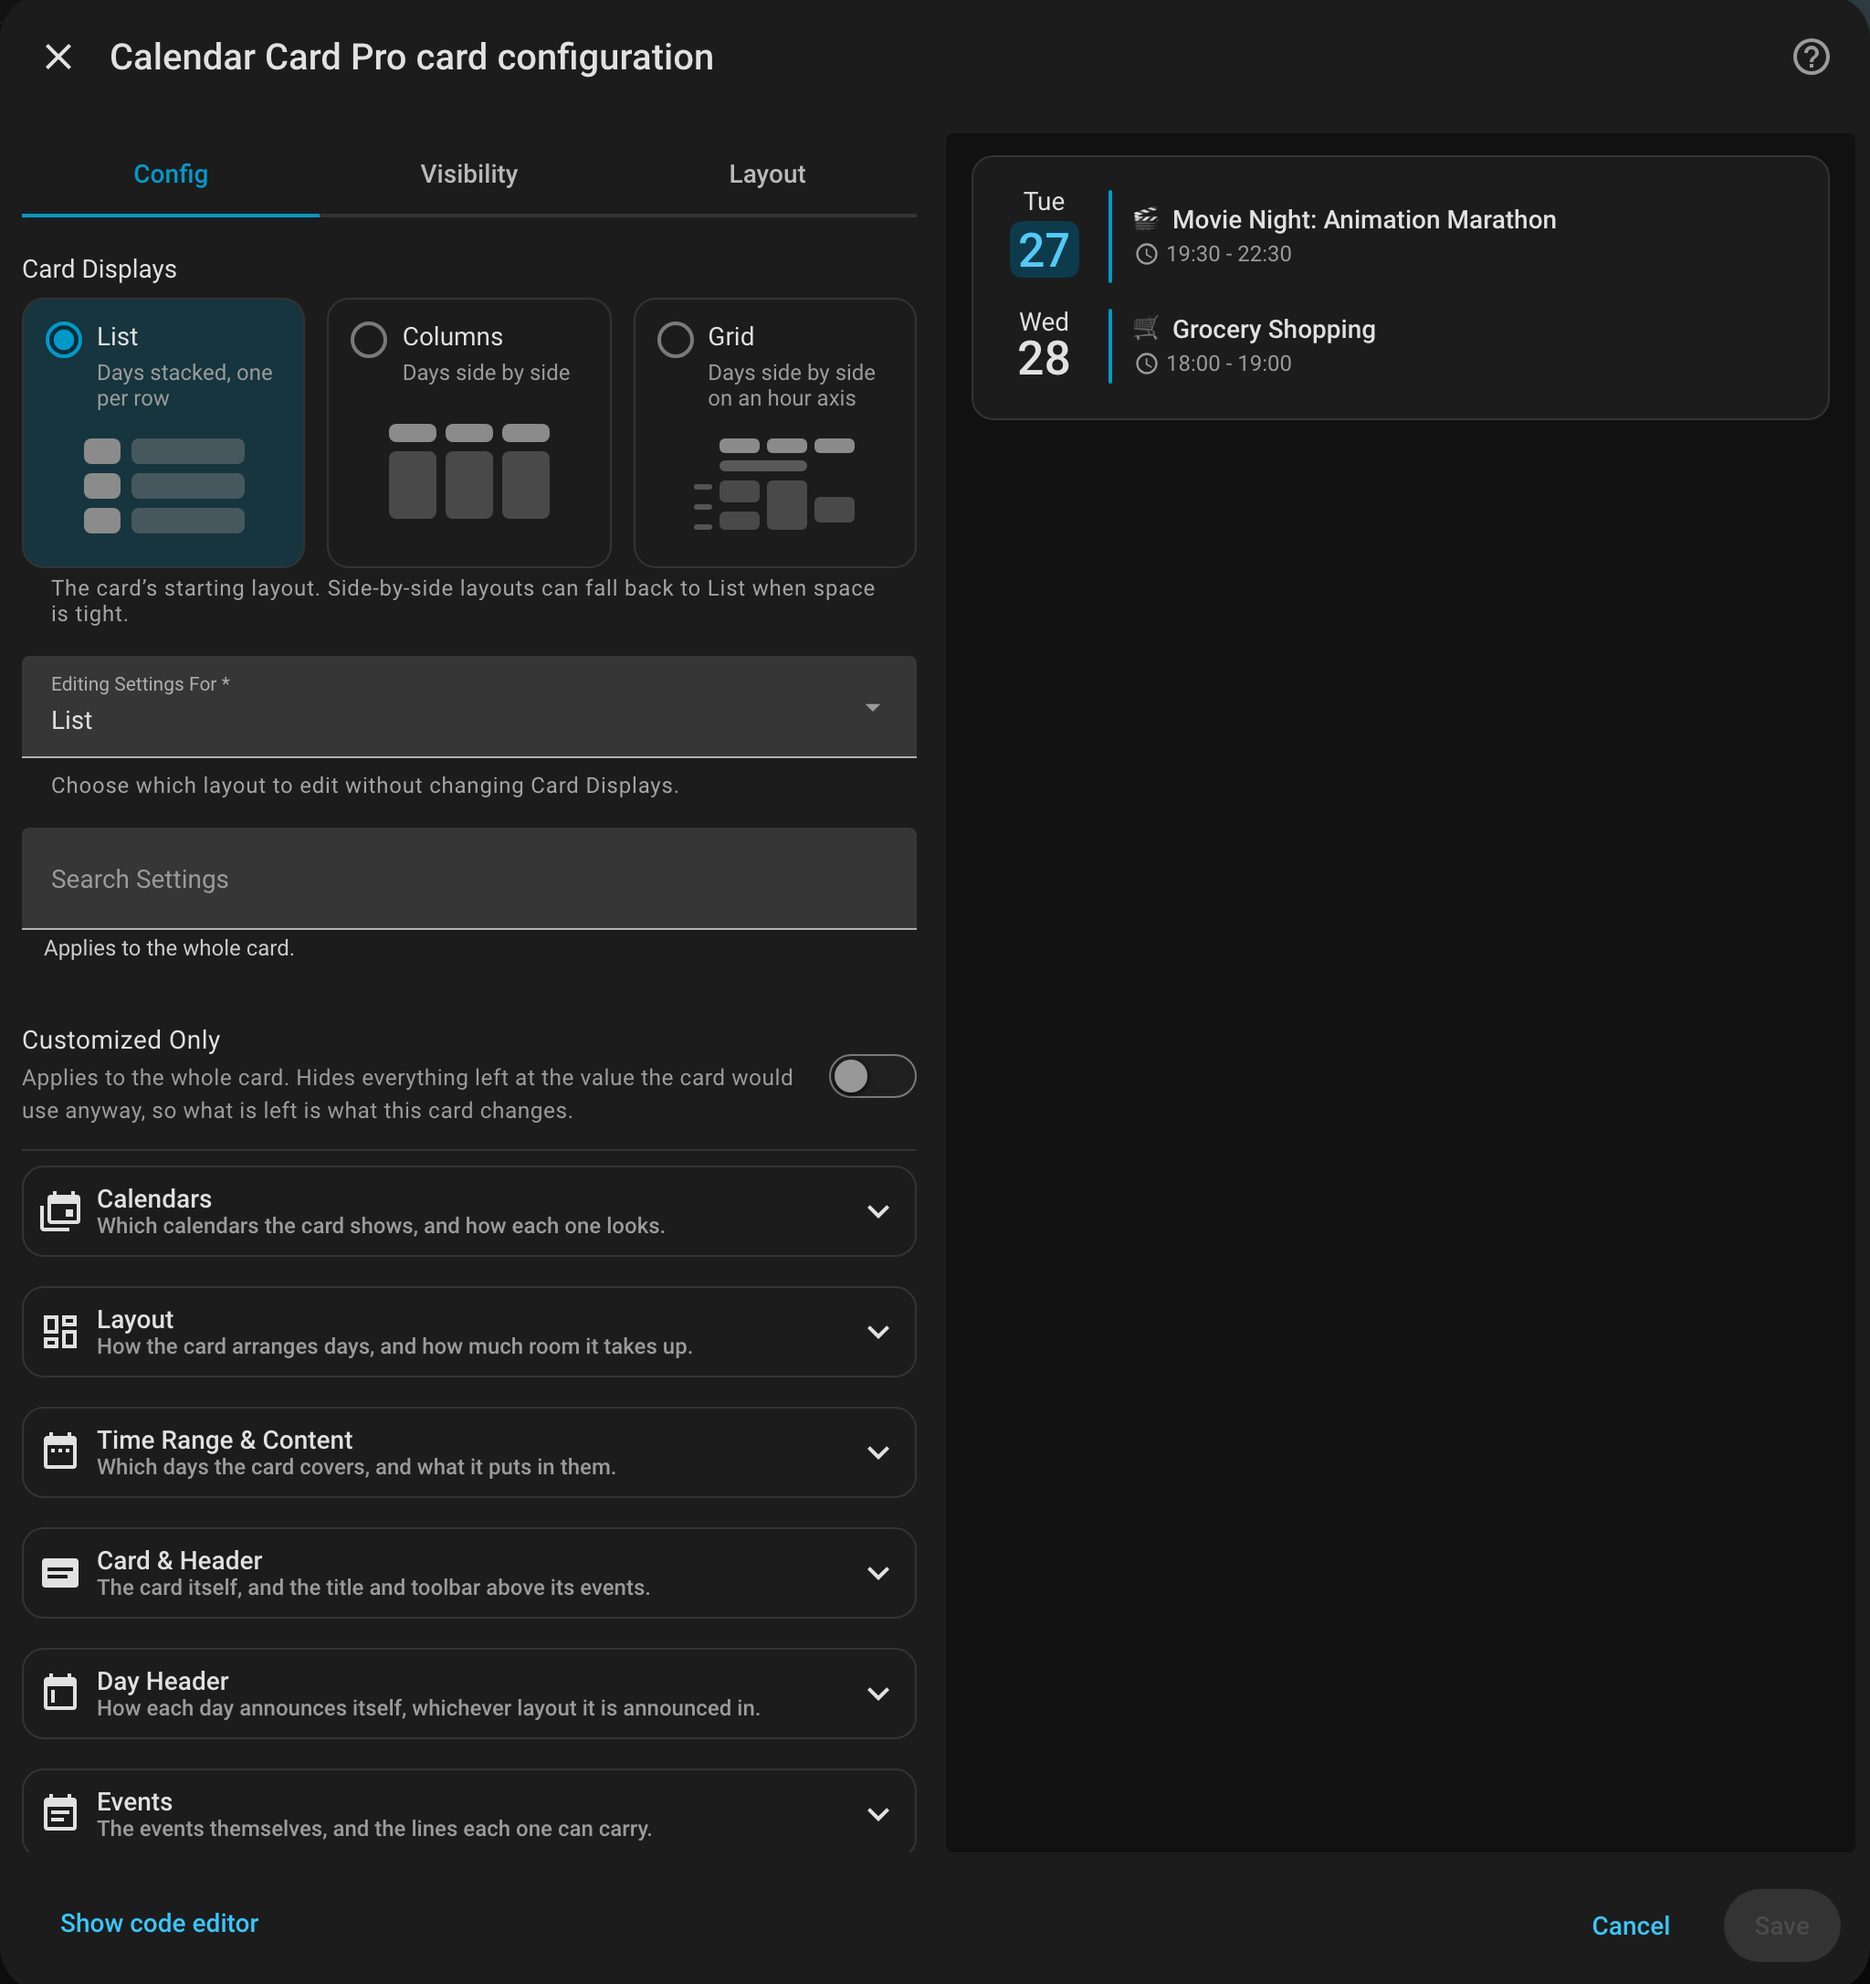
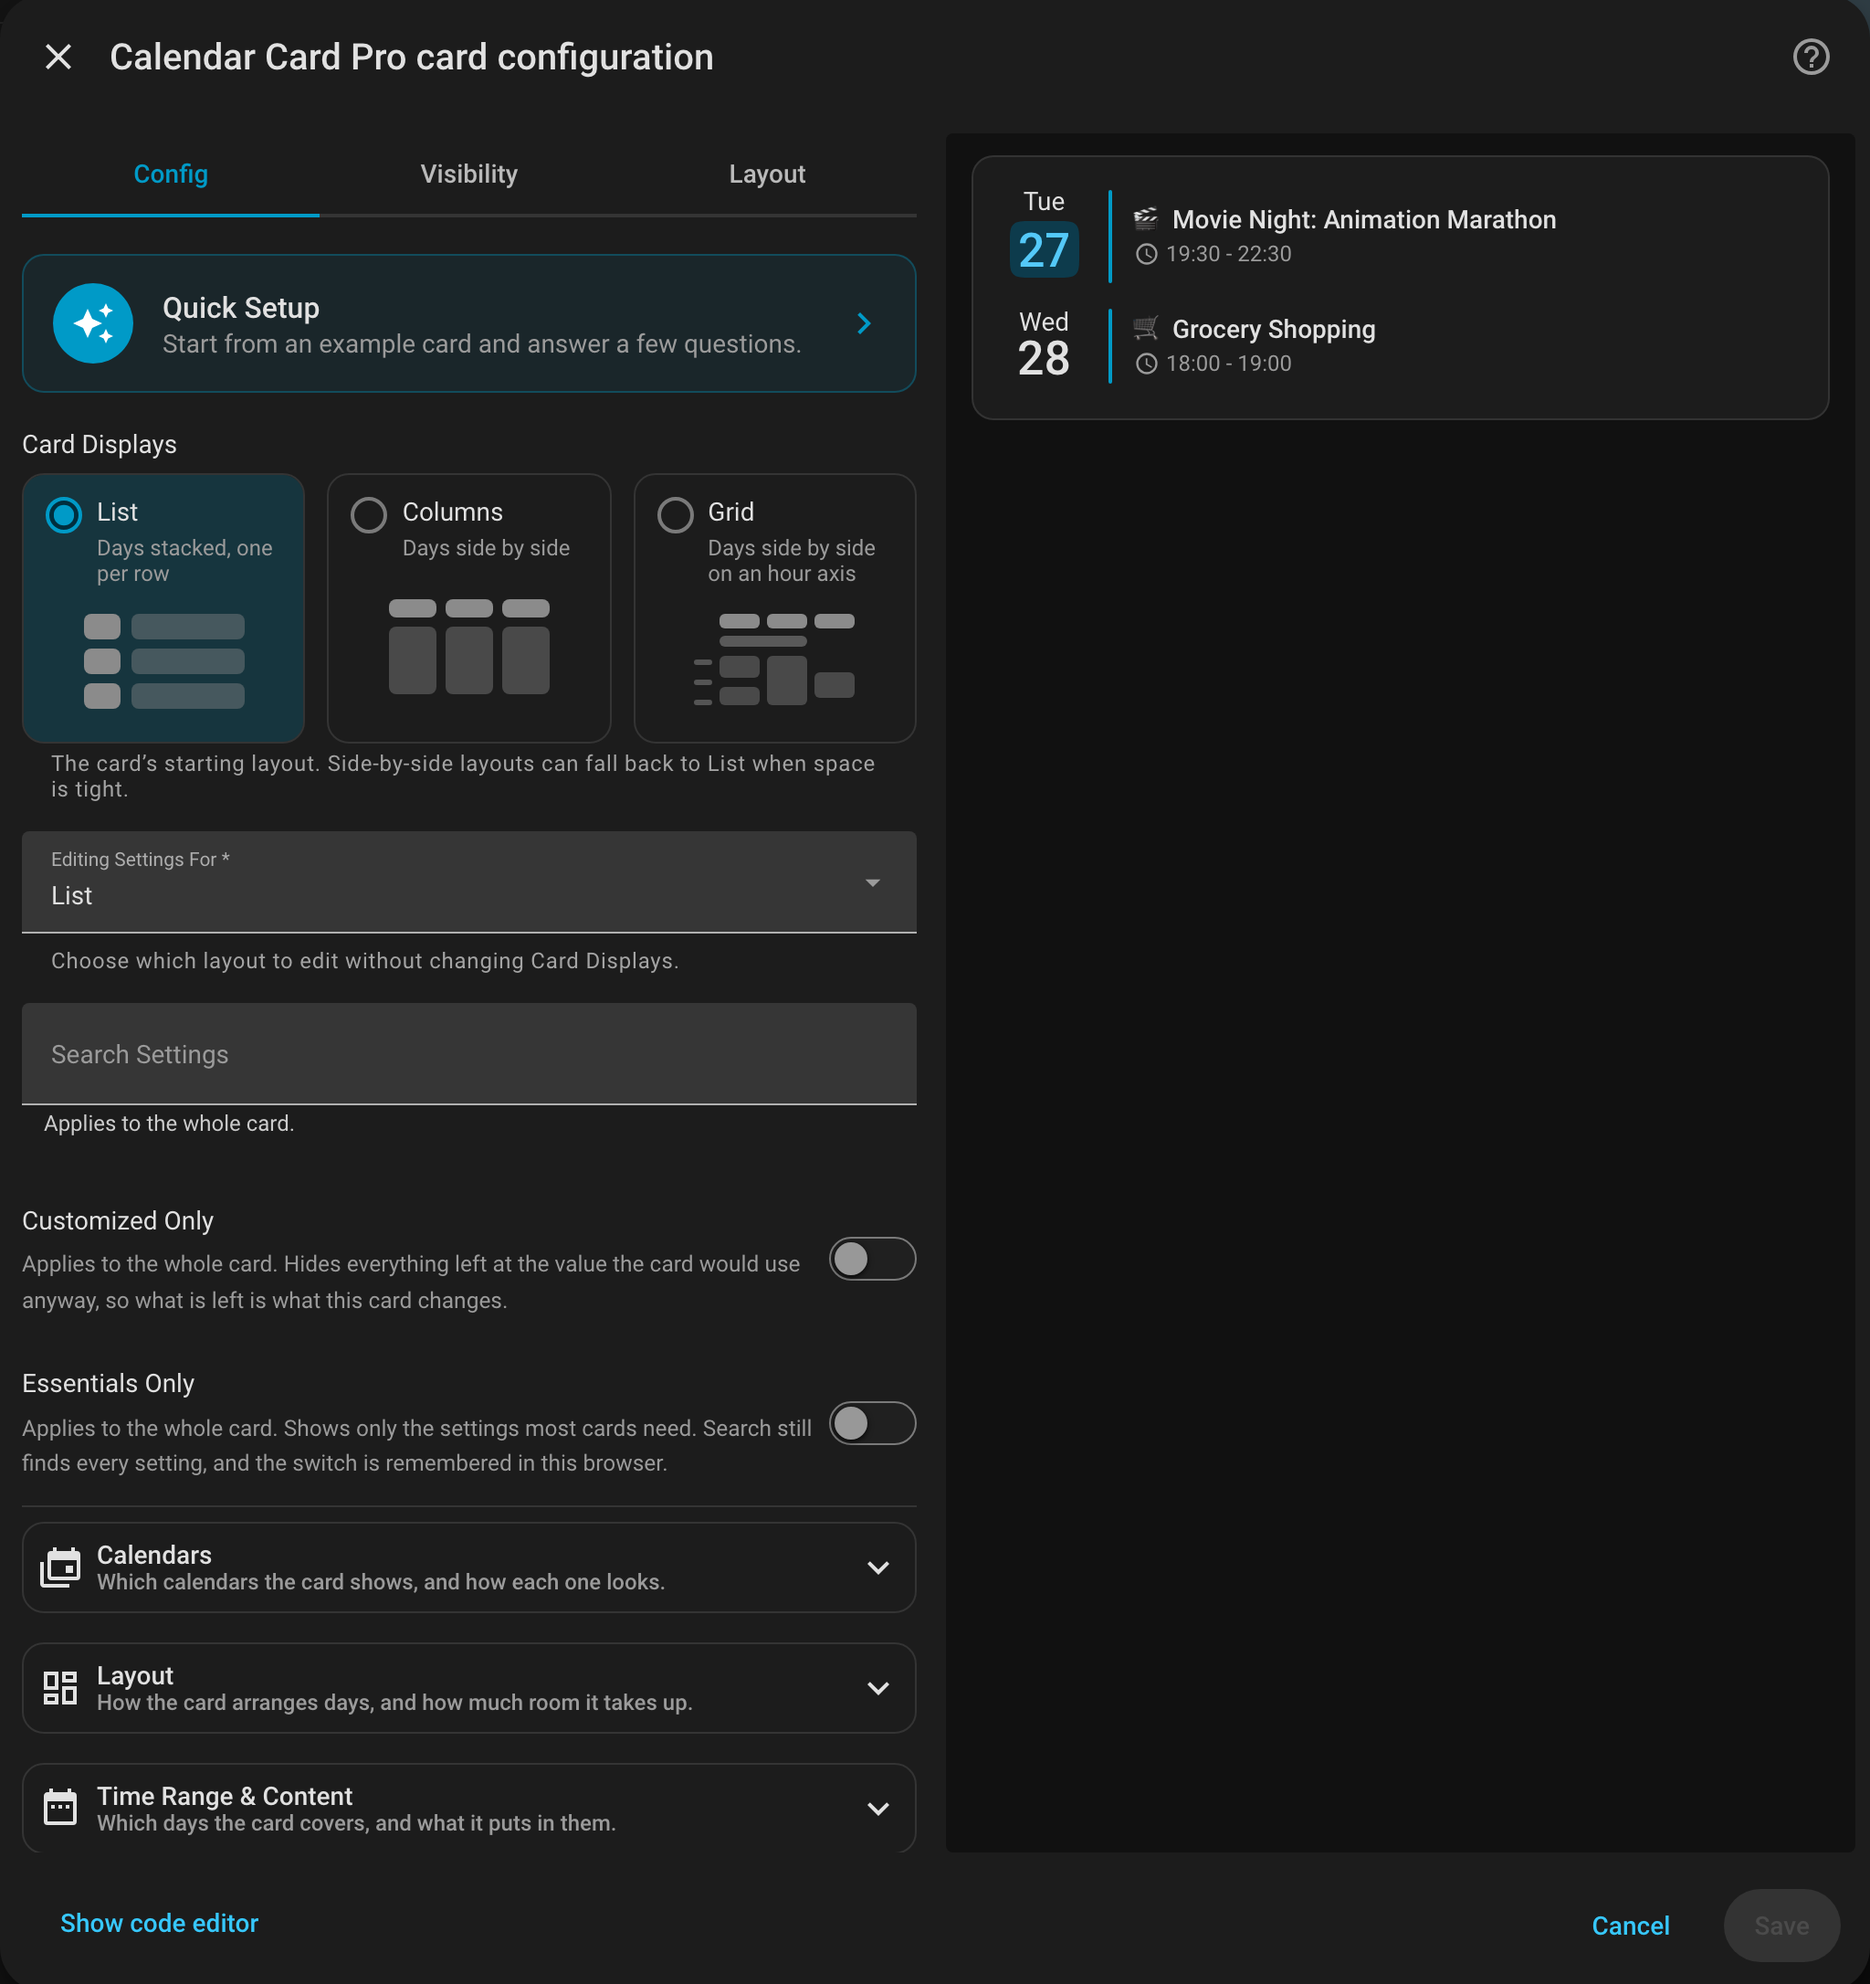
docs(editor, grid-view): picture Quick Setup and Shading Today, and retake the editor
Two new stills for v5.2, as Alex approved them on Nov 11, and the editor still R2 found stale:

- example_quick_setup.png heads Quick Setup on the editor page: the card editor on Starting
  Point with Family Hub picked, beside a preview already drawing the story on the demo family's
  calendars. Captured on the editor tab, dark, as the editor still is, with Quick Setup walked
  in the capture browser only; nothing was saved.
- example_grid_today.png shows Shading Today: a Monday-to-Sunday week on a Wednesday, today's
  column tinted with the section's own YAML, the now line across it, and the weekend in its own
  gray beside it. The intro now ends before the picture, so its colon still leads into the YAML.
- example_editor_v5.png is retaken: it lacked the Quick Setup button and the Essentials Only
  switch. Its alt text names both.

diff --git a/docs/features/editor.md b/docs/features/editor.md
@@ -2,7 +2,7 @@
 
 Configure the card with Home Assistant's visual editor and see a live preview as you edit.
 
-<img src="https://raw.githubusercontent.com/alexpfau/calendar-card-pro/main/.github/img/example_editor_v5.png" alt="The visual editor in dark mode: the Card Displays choice, the layout being edited, search, and the collapsible panels, beside a live preview of the card"><br>
+<img src="https://raw.githubusercontent.com/alexpfau/calendar-card-pro/main/.github/img/example_editor_v5.png" alt="The visual editor in dark mode: Quick Setup at the top, the Card Displays choice, the layout being edited, search, the Customized Only and Essentials Only switches, and the collapsible panels, beside a live preview of the card"><br>
 
 The editor, with the card's preview beside it. **Card Displays** is set to List, so **Editing Settings For** starts on List too; [Options for the Selected View](#options-for-the-selected-view) explains the two.
 
@@ -14,6 +14,10 @@ To open it, click the three dots (⋮) in the top-right corner of the card and s
 what a story cannot know about your home: the title, your calendars, your weather and how the
 card should answer a tap. Use it on a new card to get a finished-looking one in a few steps, or
 on an existing card to try a different look without retyping anything.
+
+<img src="https://raw.githubusercontent.com/alexpfau/calendar-card-pro/main/.github/img/example_quick_setup.png" alt="Home Assistant's card editor with Quick Setup open on its first step, Starting Point: four stories to start from with Family Hub picked, beside a preview already drawing the Family Hub card"><br>
+
+Pick a story and the preview draws it at once, on your own calendars as soon as you name them.
 
 Choose **Quick Setup** at the top of the editor. Starting from Birthdays & Holidays on two
 calendars writes this:

diff --git a/docs/features/grid-view.md b/docs/features/grid-view.md
@@ -337,8 +337,11 @@ beside a weekday, and a window that shows only one half of a weekend tints only 
 ## 📍 Shading Today
 
 `today_background_color` tints today's column the way the weekend shading tints a weekend's, so
-today stands out before you read a single date. It is off by default, and any CSS color turns
-it on:
+today stands out before you read a single date.
+
+<img src="https://raw.githubusercontent.com/alexpfau/calendar-card-pro/main/.github/img/example_grid_today.png" alt="A Monday-to-Sunday week in grid view on a Wednesday: Wednesday's column tinted from under the date row to the foot of the hours, with the now line across it, and Saturday and Sunday in the weekend's own gray"><br>
+
+It is off by default, and any CSS color turns it on:
 
 ```yaml
 time_grid:
